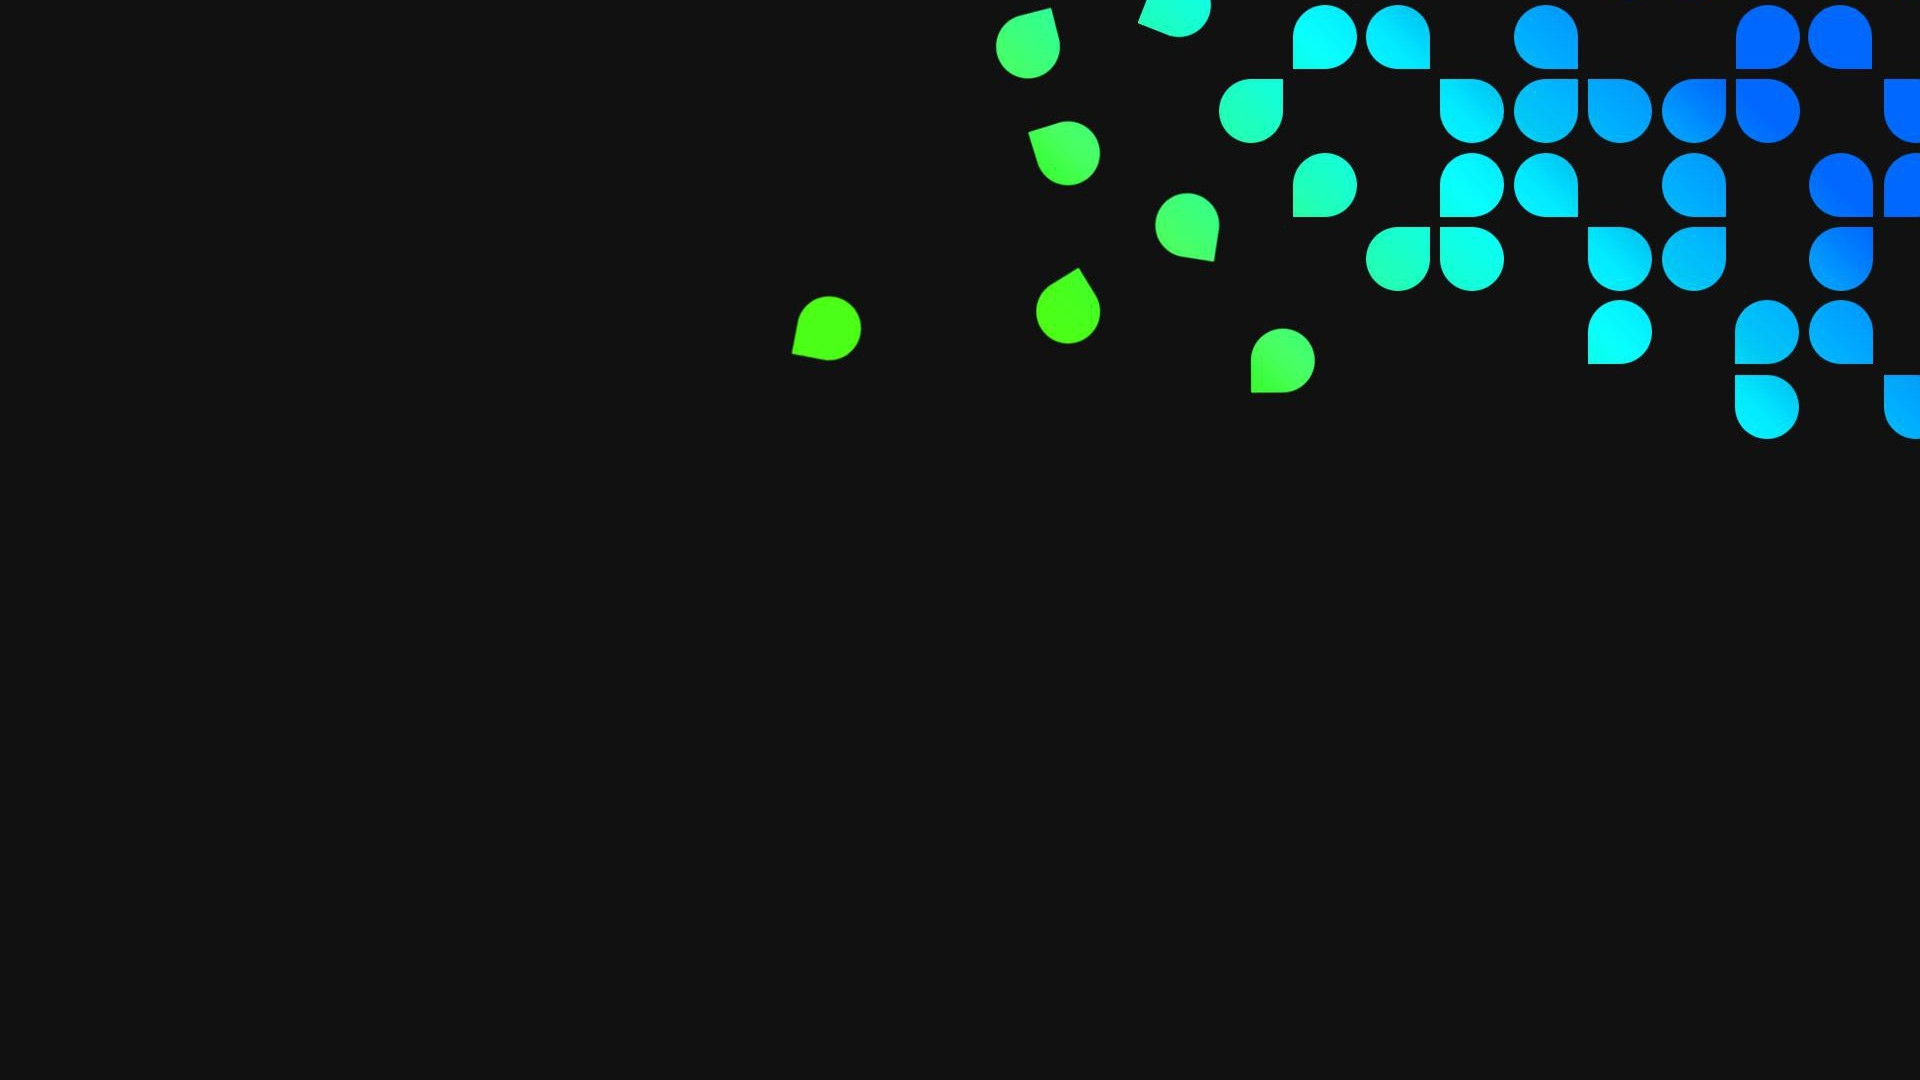
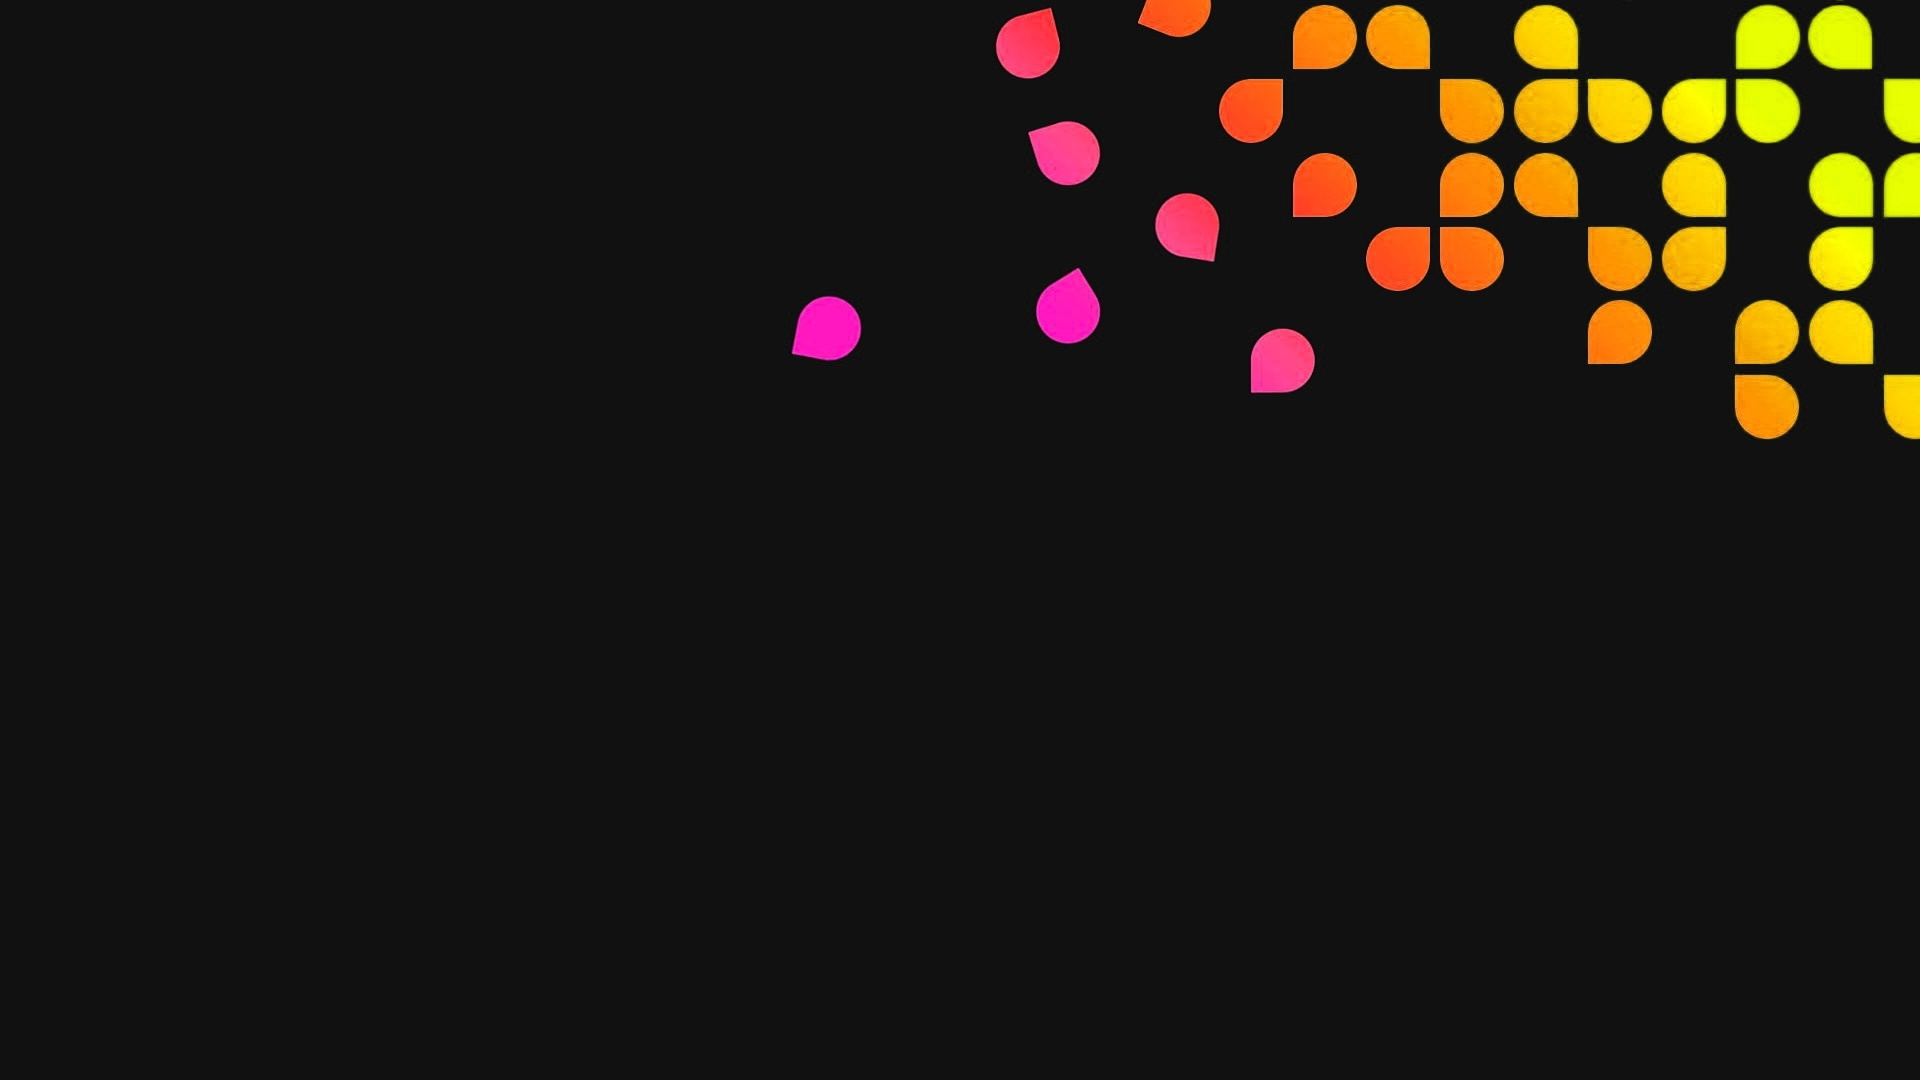
.

diff --git a/styles.css b/styles.css
@@ -23,16 +23,15 @@ html {
     scroll-behavior: smooth;
 }
 .background {
+    transform: rotate(180deg);
     margin: 0;
-    width: 100%;
-    height: 100%;
     background-repeat: no-repeat;
     background-size: cover;
     position: absolute;
     background-position: center;
     top: 0;
     z-index: -10;
-    left: 0;
+    right: 0;
 }
 
 .fourofour-background {
@@ -93,7 +92,8 @@ html {
 
 .link {
     color: #ffffff80;
-    margin: .3vw 1vw;
+    margin: .15vw .5vw;
+    padding: .15vw .5vw;
     background: none;
     font-size: 15px;
     border-style: none;
@@ -481,6 +481,9 @@ hr {
 @media screen and (max-width: 800px) {
     body {
         background-size: cover;
+    }
+    .background {
+        height: 100%;
     }
     .Information-grid {
         flex-direction: column;

diff --git a/index.html b/index.html
@@ -34,7 +34,7 @@
         <div class="spacer"></div>
     </main>
     <a href="/index.html"><img src="/favicon.png" alt="FireFlamer06 Icon" class="logo"></a>
-    <img src="/img/img6.jpg" alt="scuffed" class="background">
+    <img src="/img/Simple-wallpaper-HD-backgrounds.jpg" alt="scuffed" class="background">
     <!--<section id="footer"></section>-->
     <script src="/main.js"></script>
 </body>
